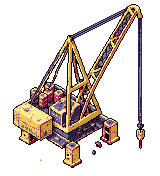
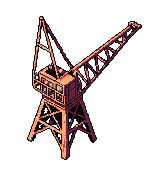
feat(grafik): Sturm-Trümmer-Assets durch v2-Varianten ersetzen (#690)

diff --git a/assets/pixellab/README.md b/assets/pixellab/README.md
@@ -46,7 +46,7 @@ Gemeinsame Basis-Tile-IDs (zum Weiter-Verketten neuer Sets):
 `pod_hull` 9811117f-c006-431c-bc00-e3fda4cc5ac1 (offener Holzboot-Rumpf fur Pod-Slots am Steg, #649; `high top-down`, 32×32, `selective outline`, `detailed shading`; Holzplanken-Rumpf von oben mit offenem Innenleben — ersetzt die generischen `crate`+`band`-Sprites in `clustersync.ts`; das Container-Fass (`barrel`) sitzt mit Deployment-Farb-Tint zentriert im Rumpf)
 `shed` 1a801a53 (Lagerschuppen für gestoppte Container, #678; `high top-down`, 128×128, `selective outline`, `detailed shading`, `high detail`; offen-fronter Holzschuppen mit Satteldach + dunklem Eingangsbereich. Ersetzt in `scenes/worldscene/scenery.ts` das frühere `graphics()`-Primitiv in `renderContainerLager`; auf 0.75 skaliert → 96×96px, Origin unten-mitte, Fußlinie an `footY` für korrektes Depth-Sorting; gestoppte Container-Fässer stehen weiterhin vor dem offenen Eingang)
 `pier_ruined` 85a7921a (Beschädigter Holzsteg für die drei Cluster-Knoten-Anleger, #691; `high top-down`, 48×112, `selective outline`, `detailed shading`, `high detail`; 3 Planken breit × 7 Planken lang, kaputte/morsche Holzdielen mit Lücken und Löchern, dunkles Wasser schimmert durch, Holzsplitter auf den verbliebenen Planken, umgeknickte Stützpfosten, Treibgut im Wasser. Deckungsgleich mit dem 3×7-Kachel-Fußabdruck der Cluster-Stege bei `PIER_XS` — ein Sprite für alle drei Anleger (ahoi-control, ahoi-worker-1, ahoi-worker-2). Noch ohne Sim-Verdrahtung; die Kopplung an den kubeadm-Zustand kommt in Teil 3–4 von #467)
-`lighthouse_ruined` 1bccdad4 · `crane_wrecked` c5bf4223 · `house_office_damaged` ec150b96 · `ship_wrecked` 05558eea (Sturm-Trümmer-Varianten, #690; `muted warm earthy palette`, `soft dark-tinted outlines not pure black`, `single light source top-left`, `selective outline`, `detailed shading`, `high detail`; ca. 60–70 % der Original-Struktur erkennbar — Risse, eingestürzte Teile, Trümmer am Fuß. `lighthouse_ruined` 90×90, `side view`; `crane_wrecked` 160×160, `high top-down`; `house_office_damaged` 204×204, `high top-down`; `ship_wrecked` 288×288, `high top-down`. Reine Asset-Registrierung; Render-Logik (wann ruined statt original) folgt in Sturm-Optik 2/4+)
+`lighthouse_ruined` · `crane_wrecked` · `house_office_damaged` · `ship_wrecked` (Sturm-Trümmer-Varianten v2, #690; `muted warm earthy palette`, `soft dark-tinted outlines not pure black`, `single light source top-left`, `selective outline`, `detailed shading`, `high detail`; strukturell eingestürzt — obere Hälfte abgebrochen, umgekippter Kran, eingestürztes Dach, kenterndes Schiff. `lighthouse_ruined` 44×100, `side view`; `crane_wrecked` 160×176, `high top-down`; `house_office_damaged` 102×108, `high top-down`; `ship_wrecked` 288×176, `high top-down`. Reine Asset-Registrierung; Render-Logik (wann ruined statt original) folgt in Sturm-Optik 2/4+)
 
 > **Terraform-Plateau-Boden** (`tf_floor`, #672): ersetzt die Kenney-dungeon-WOOD-Frames (48–53) auf dem Terraform-Plateau. `create_tiles_pro`, `square_topdown`, view_angle 90, `segmentation`-Mode → nahtlos; 16×16 RGBA PNG. Job `3fe9e81e-76bc-4dca-a2dc-d6bef77211c3`, Variante tile_15 (warme braune Außen-Holzplanken, Stardew-Stil). Gezeichnet in `scenery.ts` via `rt.draw("tf_floor", x*T, y*T)` (zuvor `rt.drawFrame("dungeon", WOOD[(x+y)%3], …)`).
 
